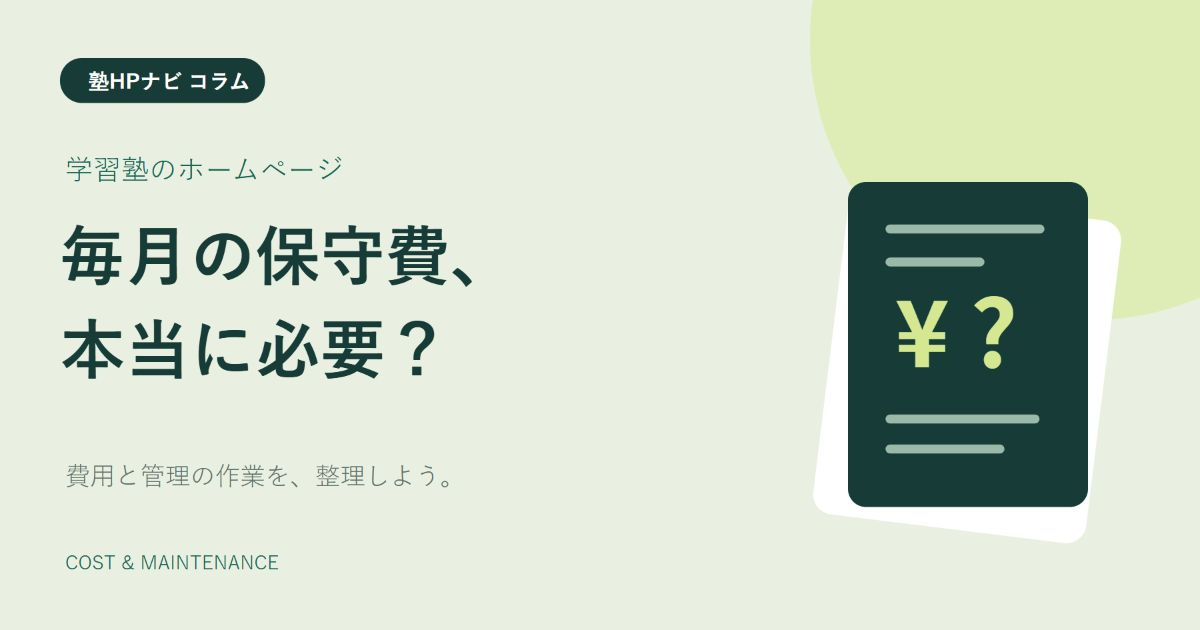
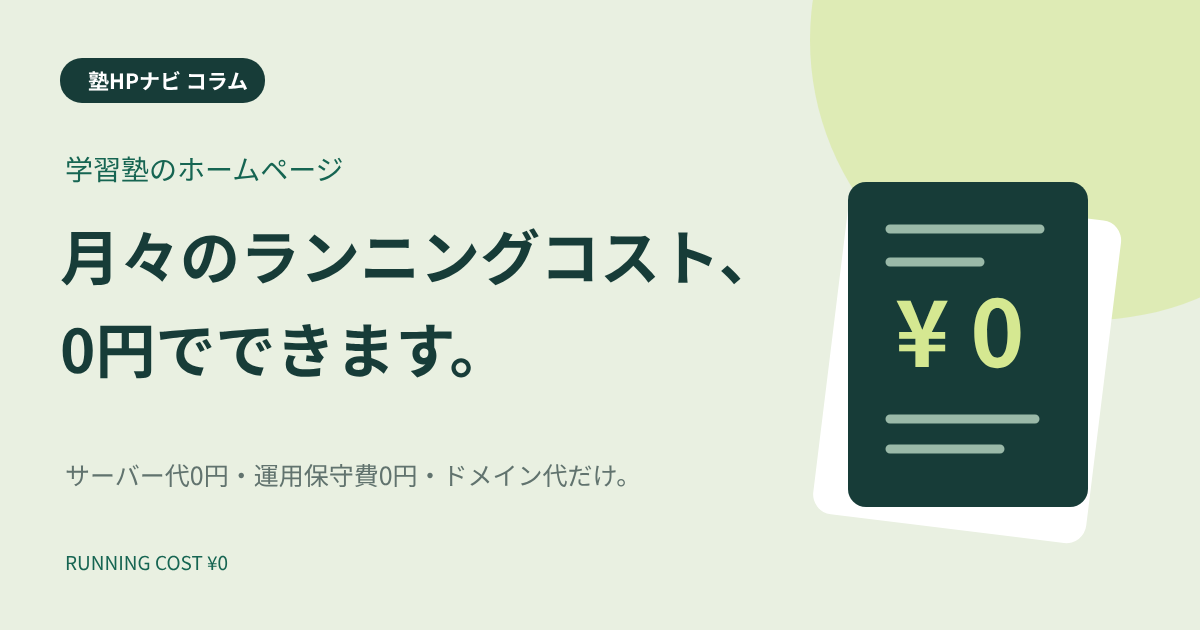
Rewrite column around zero monthly running cost
Retitle the maintenance-fees column to "学習塾のホームページは、月々のランニングコスト0円でできます"
and restructure it with conclusion-first headings: free server (GitHub Pages),
no maintenance fee, domain cost only, one-time production fee. Shorten the
second half, refresh the cover/OG image, and update the column cards and sitemap.

Claude-Session: https://claude.ai/code/session_01LzDfxpxXWJektGdbPMNKbb

diff --git a/columns/maintenance-fees.html b/columns/maintenance-fees.html
@@ -1,58 +1,40 @@
-<!doctype html><html lang="ja"><head><meta charset="utf-8"><meta name="viewport" content="width=device-width,initial-scale=1"><title>学習塾のホームページに保守費・サーバー管理費はいりません｜塾HPナビ</title><meta name="description" content="学習塾のホームページに毎月の保守契約は必要？ 桜灯塾・elio・Kokuban BASEの実例をもとに、毎月のサーバー代や運用保守費をかけない運用を分かりやすく紹介します。"><link rel="canonical" href="https://juku-hp-navi.com/columns/maintenance-fees.html"><meta property="og:title" content="学習塾のホームページに保守費・サーバー管理費はいりません"><meta property="og:description" content="学習塾のホームページに毎月の保守契約は必要？ 桜灯塾・elio・Kokuban BASEの実例をもとに、毎月のサーバー代や運用保守費をかけない運用を分かりやすく紹介します。"><meta property="og:type" content="article"><meta property="og:url" content="https://juku-hp-navi.com/columns/maintenance-fees.html"><meta property="og:image" content="https://juku-hp-navi.com/assets/columns/maintenance-fees.png"><meta name="twitter:card" content="summary_large_image"><link rel="icon" href="/favicon.ico?v=20260925" sizes="any"><link rel="icon" href="/favicon.svg?v=20260925" type="image/svg+xml"><link rel="apple-touch-icon" href="/apple-touch-icon.png"><link rel="stylesheet" href="/styles.css?v=20261006"><link rel="stylesheet" href="/columns.css?v=20261006a"><script type="application/ld+json">{"@context":"https://schema.org","@type":"BlogPosting","headline":"学習塾のホームページに保守費・サーバー管理費はいりません","description":"学習塾のホームページに毎月の保守契約は必要？ 桜灯塾・elio・Kokuban BASEの実例をもとに、毎月のサーバー代や運用保守費をかけない運用を分かりやすく紹介します。","image":"https://juku-hp-navi.com/assets/columns/maintenance-fees.png","datePublished":"2026-10-06","dateModified":"2026-10-06","inLanguage":"ja","mainEntityOfPage":"https://juku-hp-navi.com/columns/maintenance-fees.html","author":{"@type":"Person","name":"山田 将生","url":"https://juku-hp-navi.com/columns/maintenance-fees.html#author"},"publisher":{"@type":"Organization","name":"塾HPナビ","url":"https://juku-hp-navi.com","logo":{"@type":"ImageObject","url":"https://juku-hp-navi.com/apple-touch-icon.png"}}}</script><script type="application/ld+json">{"@context":"https://schema.org","@type":"BreadcrumbList","itemListElement":[{"@type":"ListItem","position":1,"name":"トップ","item":"https://juku-hp-navi.com/"},{"@type":"ListItem","position":2,"name":"コラム","item":"https://juku-hp-navi.com/columns/"},{"@type":"ListItem","position":3,"name":"学習塾のホームページに保守費・サーバー管理費はいりません","item":"https://juku-hp-navi.com/columns/maintenance-fees.html"}]}</script></head><body class="column-page"><a class="skip" href="#main">本文へ移動</a><header class="header"><div class="container header-inner"><a class="brand" href="/"><img class="brand-icon" src="/favicon.svg" width="40" height="40" alt=""><span>塾HPナビ<small>学習塾専門ホームページ制作</small></span></a><nav aria-label="メインナビゲーション"><a href="/columns/">コラム</a><a href="/#works">制作事例</a><a href="/#price">料金</a></nav><a class="button small" href="/#contact">無料で相談する ↗</a></div></header><main id="main"><div class="article-wrap"><nav class="breadcrumbs" aria-label="パンくず"><a href="/">トップ</a><span>／</span><a href="/columns/">コラム</a><span>／ 費用・運用</span></nav><header class="article-heading"><p class="eyebrow">COLUMN / 費用・運用</p><h1>学習塾のホームページに保守費・サーバー管理費はいりません</h1><p class="article-deck">塾の紹介やお問い合わせを受け付けるホームページに、<br>毎月の管理費・保守費は必要ありません。</p><p class="column-meta"><time datetime="2026-10-06">2026年10月6日 公開</time><span>執筆：山田 将生</span></p><img class="article-cover" src="/assets/columns/maintenance-fees.svg" alt="毎月の保守費、本当に必要？ 学習塾のホームページの費用を見直す" width="1200" height="630"></header><details class="article-toc"><summary>この記事の目次</summary><ol><li><a href="#section-1">この機能の範囲なら、基本的に毎月の保守契約はいりません</a></li><li><a href="#section-2">きっかけは「このお金、本当に必要？」という疑問でした</a></li><li><a href="#section-3">月1万円でも、5年で60万円になります</a></li><li><a href="#section-4">毎月の契約ではなく、必要なときに直すという考え方</a></li><li><a href="#section-5">毎月の管理を任せたほうがよい場合もあります</a></li><li><a href="#section-6">無料のサーバーも、使える条件を確認して選びます</a></li><li><a href="#section-7">塾HPナビの制作費は、一括99,000円（税込）です</a></li><li><a href="#section-8">ドメイン代だけは、継続して必要です</a></li><li><a href="#section-9">いまの保守契約を解約する前に</a></li><li><a href="#section-10">よくある質問</a></li><li><a href="#section-15">まとめ：毎月の支払いが当たり前とは限りません</a></li><li><a href="#section-16">この記事を書いた人</a></li><li><a href="#section-17">参考資料</a></li></ol></details><article class="article-body"><p><strong>学習塾のホームページなら、毎月の管理費や保守費を払う契約は必要ありません。</strong> ここでお話しするのは、塾の紹介やコース・料金の案内、お問い合わせの受付をするホームページです。</p>
-<p>実際に、次のホームページでは毎月の管理費・保守費を払っていません。いずれも無料のサーバーを使っているため、毎月のサーバー代もかかっていません。</p>
-<ul><li><a href="https://oubijuku-omu.com/">大阪公立大学専門 桜灯塾</a></li><li><a href="https://elio-ideaspot.com/">会員制難関受験専門塾 elio</a></li><li><a href="https://kokuban-base.com/">Kokuban BASE</a></li></ul><h2 id="section-1">この機能の範囲なら、基本的に毎月の保守契約はいりません</h2>
-<ul><li>塾の紹介、指導方針、講師紹介を載せる</li><li>コース・料金・時間割・アクセスを案内する</li><li>スマートフォンでも見やすく表示する</li><li>お問い合わせフォームで相談を受け付ける</li><li>お問い合わせを一覧に記録し、通知メールや受付完了メールを送る</li></ul><p><strong>こうした機能を中心にしたホームページであれば、基本的に毎月の保守契約を結ばずに運用できます。</strong> 文章や料金を変えたいときは、その都度修正するという考え方です。</p>
-<p>ドメイン（ホームページの住所）の更新や、フォーム・通知がきちんと動くかの確認は必要です。月額契約が不要ということであって、確認や修正の作業までなくなるわけではありません。機能の作り方によっても必要な対応は変わります。</p>
-<h2 id="section-2">きっかけは「このお金、本当に必要？」という疑問でした</h2>
-<p>学習塾の経営者様にお話を聞くと、「運用保守」という名目のお金を、具体的な作業内容が分からないまま毎月支払っているという声があります。</p>
-<p>そのお金は本当に必要なのか。疑問に思ったわたしは、自分でサイトを制作してみました。</p>
-<p>作ってみて分かったのは、<strong>作り方を選べば、毎月の保守契約を結ばずに運用できる</strong>ということです。先ほどの3サイトも、その実例です。</p>
-<p>毎月料金が発生するのが当たり前、というわけではありません。何をしてもらうための支払いなのか、一度確認してみてください。</p>
-<h2 id="section-3">月1万円でも、5年で60万円になります</h2>
-<p>毎月の金額は小さく見えても、何年も払い続けると大きな費用になります。</p>
-<div class="table-scroll" tabindex="0" role="region" aria-label="比較表"><table><thead><tr><th scope="col">月額</th><th scope="col">1年間</th><th scope="col">5年間</th></tr></thead><tbody><tr><td>5,000円</td><td>6万円</td><td>30万円</td></tr><tr><td>1万円</td><td>12万円</td><td>60万円</td></tr><tr><td>3万円</td><td>36万円</td><td>180万円</td></tr></tbody></table></div><p>もちろん、毎月のお知らせ更新や、困ったときの対応まで任せているなら、その支払いには意味があります。</p>
-<p>一方で、更新をほとんど頼んでいないのに「管理費」という理由だけで払い続けているなら、見直す余地があるかもしれません。</p>
-<h2 id="section-4">毎月の契約ではなく、必要なときに直すという考え方</h2>
-<p>塾の紹介、コースや料金、講師紹介、お問い合わせ先。こうした情報を載せるホームページであれば、複雑な仕組みを持たせずに作ることができます。</p>
-<p>文章や料金表を変えたいときには、その部分を直して公開する。自分で修正する方法もあれば、必要なときだけ制作者に頼む方法もあります。</p>
-<p><strong>「毎月お金を払うこと」と「ホームページをきちんと管理すること」は、同じではありません。</strong></p>
-<p>ただし、公開後に何もしなくてよいという意味ではありません。次のような確認は必要です。</p>
-<div class="table-scroll" tabindex="0" role="region" aria-label="比較表"><table><thead><tr><th scope="col">確認すること</th><th scope="col">やること</th></tr></thead><tbody><tr><td>ホームページの住所</td><td>ドメインの更新料を払い、使い続けられる状態にする</td></tr><tr><td>お問い合わせ</td><td>フォームが動くか、通知メールが届くかを確認する</td></tr><tr><td>掲載内容</td><td>料金・時間割・連絡先が古くなっていないか確認する</td></tr><tr><td>サイトのデータ</td><td>万一に備えて、データの控えを残しておく</td></tr></tbody></table></div><p>これらを誰が担当するのかを決めたうえで、毎月の契約が必要かどうかを考えます。</p>
-<h2 id="section-5">毎月の管理を任せたほうがよい場合もあります</h2>
-<p>例えば、次のようなホームページでは、継続して専門の人に見てもらう意味があります。</p>
-<ul><li>会員がログインして、個人情報や支払いを管理する</li><li>予約や決済など、複数の仕組みを組み合わせている</li><li>毎月たくさんの更新を代行してもらいたい</li><li>WordPressという、管理画面から記事などを更新する仕組みを使っている</li></ul><p>WordPressなどは、使い続けるための更新や不具合の確認が必要です。そうした作業を任せる保守費まで不要と言いたいわけではありません。</p>
-<p>お問い合わせフォームを使う場合も、保護者の名前や連絡先を誰が見られるかなど、情報の扱いには気を配る必要があります。</p>
-<p>大切なのは、<strong>自分の塾に必要な作業と、支払っている費用が合っているか</strong>です。</p>
-<h2 id="section-6">無料のサーバーも、使える条件を確認して選びます</h2>
-<p>無料でホームページを公開できるサービスには、それぞれ使える範囲や条件があります。どんなサイトでも、どのサービスでも無料で使えるわけではありません。</p>
-<p>例えばGitHub Pagesというサービスにも、事業や販売を目的とするサイトなどに関する利用制限があります。使う前に、公開する内容が条件に合っているか確認する必要があります（<a href="https://docs.github.com/en/pages/getting-started-with-github-pages/github-pages-limits">公式の利用条件</a>）。</p>
-<p>細かな仕組みを先生がすべて覚える必要はありません。制作を依頼するときに、<strong>「毎月いくらかかるか」「何の費用か」「公開後は誰が何をするか」</strong>を確認できれば、比較しやすくなります。</p>
-<h2 id="section-7">塾HPナビの制作費は、一括99,000円（税込）です</h2>
-<p>自分で作れば外注費はかかりませんが、文章を考え、見た目を整え、スマホでの表示を確認して公開するまでには時間がかかります。</p>
-<p>授業や教室運営で忙しい先生なら、その作業を任せるという選択肢もあります。わたしは現役塾講師としてお話を伺い、その塾の強みが伝わる構成とデザインを考えます。</p>
-<p>なお、撮影や取材、特別な機能などが含まれれば、制作費が高くなる理由もあります。他社と比べる際は、金額だけでなく、何をどこまでしてもらえるかも確認してください。</p>
-<h2 id="section-8">ドメイン代だけは、継続して必要です</h2>
-<p>ドメインとは「〇〇juku.com」のような、ホームページの住所です。この住所を使い続けるためには、更新料が必要です。</p>
-<p>塾HPナビでは年間約1,500円を目安にご案内しています。種類や契約先によって料金は変わりますが、月に換算すると約125円です。</p>
-<p>年払いであれば毎月の請求はありません。ただし、一度払えば永久に使えるというものではないため、更新を忘れないようにしておきます。</p>
-<h2 id="section-9">いまの保守契約を解約する前に</h2>
-<p>費用を見直したいと思っても、すぐに解約するのは避けてください。先に次の3点を確認しましょう。</p>
-<ol><li><strong>今のホームページの住所を引き継げるか</strong>：ドメインを誰が管理しているか、制作会社に確認します。</li><li><strong>ホームページのデータを受け取れるか</strong>：別の場所へ移して使えるかも確認します。</li><li><strong>解約の条件は何か</strong>：契約期間や申し出の期限、メールやお問い合わせへの影響を確認します。</li></ol><p>新しい場所でホームページやメールが動くことを確かめてから、古い契約を終える。この順番で進めることが大切です。</p>
-<h2 id="section-10">よくある質問</h2>
-<h3 id="section-11">無料のサーバーでも、お問い合わせフォームは作れますか？</h3>
-<p>作れます。お問い合わせを一覧にまとめたり、塾へ通知メールを送ったり、保護者へ受付完了メールを自動で送ったりすることもできます。必要な機能は、相談しながら決めていきます。</p>
-<h3 id="section-12">文章や料金表を変えたいときは？</h3>
-<p>自分で編集できるようにする方法も、必要なときに制作者へ頼む方法もあります。修正の依頼方法や費用は、制作時に確認しておくと安心です。</p>
-<h3 id="section-13">ホームページに不具合が起きたら？</h3>
-<p>公開サービスの不具合や、ドメインの更新忘れなどで表示できなくなることはあり得ます。困ったときの相談先を決め、データの控えを残しておきましょう。月額契約以外にも、その都度対応を頼む方法があります。</p>
-<h3 id="section-14">無料のサービスが有料になったら？</h3>
-<p>料金や利用条件が変わる可能性はあります。その場合は別の公開先へ移すことも検討できます。移す際には、表示やお問い合わせ機能の確認が必要です。</p>
-<h2 id="section-15">まとめ：毎月の支払いが当たり前とは限りません</h2>
-<p><strong>桜灯塾、elio、Kokuban BASEは、無料のサーバーを利用し、毎月の運用・保守費をかけずに公開しています。</strong></p>
-<p>ホームページには必ず毎月の管理費がかかる、というわけではありません。いま支払っているなら、まず「何をしてもらうための費用か」を確認してみてください。</p>
-<p>ホームページの制作や、公開後の費用についてのご相談は完全無料です。難しい言葉を覚えるところからではなく、いまの塾の状況を聞かせていただくところから始めます。</p>
-<h2 id="section-16">この記事を書いた人</h2>
+<!doctype html><html lang="ja"><head><meta charset="utf-8"><meta name="viewport" content="width=device-width,initial-scale=1"><title>学習塾のホームページは、月々のランニングコスト0円でできます｜塾HPナビ</title><meta name="description" content="学習塾のホームページは、毎月のサーバー代も運用保守費も0円で運用できます。かかるのは年間約1,500円のドメイン代だけ。無料サーバー「GitHub Pages」を使う理由と、保守契約がいらない理由を現役塾講師が解説します。"><link rel="canonical" href="https://juku-hp-navi.com/columns/maintenance-fees.html"><meta property="og:title" content="学習塾のホームページは、月々のランニングコスト0円でできます"><meta property="og:description" content="学習塾のホームページは、毎月のサーバー代も運用保守費も0円で運用できます。かかるのは年間約1,500円のドメイン代だけ。無料サーバー「GitHub Pages」を使う理由と、保守契約がいらない理由を現役塾講師が解説します。"><meta property="og:type" content="article"><meta property="og:url" content="https://juku-hp-navi.com/columns/maintenance-fees.html"><meta property="og:image" content="https://juku-hp-navi.com/assets/columns/maintenance-fees.png?v=20261008"><meta name="twitter:card" content="summary_large_image"><link rel="icon" href="/favicon.ico?v=20260925" sizes="any"><link rel="icon" href="/favicon.svg?v=20260925" type="image/svg+xml"><link rel="apple-touch-icon" href="/apple-touch-icon.png"><link rel="stylesheet" href="/styles.css?v=20261006"><link rel="stylesheet" href="/columns.css?v=20261006a"><script type="application/ld+json">{"@context":"https://schema.org","@type":"BlogPosting","headline":"学習塾のホームページは、月々のランニングコスト0円でできます","description":"学習塾のホームページは、毎月のサーバー代も運用保守費も0円で運用できます。かかるのは年間約1,500円のドメイン代だけ。無料サーバー「GitHub Pages」を使う理由と、保守契約がいらない理由を現役塾講師が解説します。","image":"https://juku-hp-navi.com/assets/columns/maintenance-fees.png?v=20261008","datePublished":"2026-10-06","dateModified":"2026-10-08","inLanguage":"ja","mainEntityOfPage":"https://juku-hp-navi.com/columns/maintenance-fees.html","author":{"@type":"Person","name":"山田 将生","url":"https://juku-hp-navi.com/columns/maintenance-fees.html#author"},"publisher":{"@type":"Organization","name":"塾HPナビ","url":"https://juku-hp-navi.com","logo":{"@type":"ImageObject","url":"https://juku-hp-navi.com/apple-touch-icon.png"}}}</script><script type="application/ld+json">{"@context":"https://schema.org","@type":"BreadcrumbList","itemListElement":[{"@type":"ListItem","position":1,"name":"トップ","item":"https://juku-hp-navi.com/"},{"@type":"ListItem","position":2,"name":"コラム","item":"https://juku-hp-navi.com/columns/"},{"@type":"ListItem","position":3,"name":"学習塾のホームページは、月々のランニングコスト0円でできます","item":"https://juku-hp-navi.com/columns/maintenance-fees.html"}]}</script></head><body class="column-page"><a class="skip" href="#main">本文へ移動</a><header class="header"><div class="container header-inner"><a class="brand" href="/"><img class="brand-icon" src="/favicon.svg" width="40" height="40" alt=""><span>塾HPナビ<small>学習塾専門ホームページ制作</small></span></a><nav aria-label="メインナビゲーション"><a href="/columns/">コラム</a><a href="/#works">制作事例</a><a href="/#price">料金</a></nav><a class="button small" href="/#contact">無料で相談する ↗</a></div></header><main id="main"><div class="article-wrap"><nav class="breadcrumbs" aria-label="パンくず"><a href="/">トップ</a><span>／</span><a href="/columns/">コラム</a><span>／ 費用・運用</span></nav><header class="article-heading"><p class="eyebrow">COLUMN / 費用・運用</p><h1>学習塾のホームページは、月々のランニングコスト0円でできます</h1><p class="article-deck">サーバー代0円、運用保守費0円。<br>かかるのは、年に約1,500円のドメイン代だけです。</p><p class="column-meta"><time datetime="2026-10-06">2026年10月6日 公開</time><time datetime="2026-10-08">2026年10月8日 更新</time><span>執筆：山田 将生</span></p><img class="article-cover" src="/assets/columns/maintenance-fees.svg?v=20261008" alt="月々のランニングコスト、0円でできます。サーバー代0円・運用保守費0円・ドメイン代だけ" width="1200" height="630"></header><details class="article-toc"><summary>この記事の目次</summary><ol><li><a href="#section-1">サーバーは、0円のものを選べます</a></li><li><a href="#section-2">運用保守費も、0円でかまいません</a></li><li><a href="#section-3">ただし、ドメイン代だけは年間約1,500円かかります</a></li><li><a href="#section-4">あとは、最初に制作費を払えば完了です</a></li><li><a href="#section-5">月1万円の保守費は、5年で60万円になります</a></li><li><a href="#section-6">毎月の保守契約が必要なのは、ログインや決済があるホームページです</a></li><li><a href="#section-7">よくある質問</a></li><li><a href="#section-12">まとめ：かかるのは、ドメイン代と最初の制作費だけです</a></li><li><a href="#section-13">この記事を書いた人</a></li><li><a href="#section-14">参考資料</a></li></ol></details><article class="article-body"><p><strong>学習塾のホームページは、月々のランニングコスト0円で運用できます。</strong> 毎月のサーバー代も、運用保守費もいりません。かかるのは、年に約1,500円のドメイン代だけです。</p>
+<p>ここでお話しするのは、塾の紹介、コース・料金の案内、お問い合わせの受付をするホームページです。実際に、次の3つのホームページは、毎月のサーバー代も運用保守費も払わずに公開しています。</p>
+<ul><li><a href="https://oubijuku-omu.com/">大阪公立大学専門 桜灯塾</a></li><li><a href="https://elio-ideaspot.com/">会員制難関受験専門塾 elio</a></li><li><a href="https://kokuban-base.com/">Kokuban BASE</a></li></ul><h2 id="section-1">サーバーは、0円のものを選べます</h2>
+<p>写真や書類を無料で預けられるGoogleドライブのように、ホームページを置くサーバーにも無料のものがあります。その代表が、<strong>GitHub Pages（ギットハブ・ページズ）</strong>です。</p>
+<p>ホームページのデータ（コード）をGitHubに置いておくと、GitHub Pagesがそれをそのままインターネット上に公開してくれます。自分でサーバーを借りる契約をしなくても、クラウド上のサーバーとして使えるということです。</p>
+<p>いまご覧のこの塾HPナビのホームページも、GitHub Pagesで公開しています。</p>
+<p>なお、GitHub Pagesには利用条件があり、ネットショップや決済など、サイト上での取引を主な目的とするホームページは対象外です（<a href="https://docs.github.com/en/pages/getting-started-with-github-pages/github-pages-limits">公式の利用条件</a>）。塾HPナビでは、塾の紹介とお問い合わせの受付を中心にした構成で制作しています。</p>
+<h2 id="section-2">運用保守費も、0円でかまいません</h2>
+<p>毎月の保守費は、多くの場合「仕組みを更新し続ける作業」や「不正アクセスへの備え」のためのお金です。この作り方のホームページには、そのどちらも必要ありません。</p>
+<ul><li><strong>サーバーの管理はGitHubが行います。</strong> 自分たちで機器やソフトを更新する作業がありません。</li><li><strong>ホームページの中に個人情報を保存しません。</strong> 会員のログイン画面も、管理画面も、データベースもないので、盗まれて困るものが置かれていません。</li><li><strong>更新し続ける仕組みを使っていません。</strong> WordPressのように、放っておくと古くなる仕組みがないため、定期的な更新作業がいりません。</li></ul><p>お問い合わせフォームから届いた内容は、ホームページの中ではなくGoogleのスプレッドシートに記録され、通知メールで届きます。保護者の連絡先を守るために、そのGoogleアカウントには2段階認証を設定しておきましょう。これにも費用はかかりません。</p>
+<p>文章や料金を変えたいときは、その部分だけを直して公開し直します。毎月の契約にしなくても、必要なときにその都度対応すれば足ります。</p>
+<h2 id="section-3">ただし、ドメイン代だけは年間約1,500円かかります</h2>
+<p>ドメインとは「〇〇juku.com」のような、ホームページの住所です。これだけは無料にならず、使い続けるために年1回の更新料がかかります。</p>
+<p>塾HPナビでは年間約1,500円を目安にご案内しています。月に換算すると約125円です。ドメインの種類や契約先によって金額は変わります。</p>
+<p>年払いなので、毎月の請求はありません。更新を忘れるとホームページが表示されなくなるため、自動更新にしておくと安心です。</p>
+<h2 id="section-4">あとは、最初に制作費を払えば完了です</h2>
+<p>塾HPナビの制作費は、一括99,000円（税込）です。公開後に毎月いただく費用はありません。</p>
+<p>わたしは現役塾講師としてお話を伺い、その塾の強みが伝わる構成とデザインを考えます。授業や教室運営で忙しい先生は、作る作業をまるごとお任せいただけます。</p>
+<h2 id="section-5">月1万円の保守費は、5年で60万円になります</h2>
+<p>毎月の金額は小さく見えても、払い続けると大きな費用になります。</p>
+<div class="table-scroll" tabindex="0" role="region" aria-label="比較表"><table><thead><tr><th scope="col">月額</th><th scope="col">1年間</th><th scope="col">5年間</th></tr></thead><tbody><tr><td>5,000円</td><td>6万円</td><td>30万円</td></tr><tr><td>1万円</td><td>12万円</td><td>60万円</td></tr><tr><td>3万円</td><td>36万円</td><td>180万円</td></tr></tbody></table></div><p>お知らせの更新や、困ったときの対応まで任せているなら、その支払いには意味があります。一方、ほとんど何も頼んでいないのに「管理費」として払い続けているなら、何のための費用かを一度確認してみてください。</p>
+<h2 id="section-6">毎月の保守契約が必要なのは、ログインや決済があるホームページです</h2>
+<p>次のようなホームページでは、専門の人に継続して見てもらう意味があります。</p>
+<ul><li>会員がログインして、個人情報や支払いを管理する</li><li>予約や決済など、複数の仕組みを組み合わせている</li><li>WordPressなど、定期的な更新が必要な仕組みを使っている</li><li>毎月たくさんの更新を代行してもらいたい</li></ul><p>大切なのは、<strong>自分の塾に必要な作業と、支払っている費用が合っているか</strong>です。</p>
+<h2 id="section-7">よくある質問</h2>
+<h3 id="section-8">無料のサーバーでも、お問い合わせフォームは作れますか？</h3>
+<p>作れます。お問い合わせを一覧に記録し、塾へ通知メールを送り、保護者へ受付完了メールを自動で返すところまで対応できます。</p>
+<h3 id="section-9">文章や料金表を変えたいときは？</h3>
+<p>自分で編集する方法も、必要なときだけ制作者に頼む方法もあります。依頼の方法と費用は、制作時に確認しておくと安心です。</p>
+<h3 id="section-10">GitHub Pagesが有料になったり、使えなくなったりしたら？</h3>
+<p>料金や利用条件が変わる可能性はあります。ホームページのデータは手元に残るので、その場合は別の公開先へ移せます。</p>
+<h3 id="section-11">いまの保守契約は、すぐに解約してよいですか？</h3>
+<p>先に3点を確認してください。ドメインを誰が管理しているか、ホームページのデータを受け取れるか、解約の条件（契約期間、申し出の期限、メールへの影響）は何か、です。新しいホームページが動くことを確かめてから、古い契約を終えます。</p>
+<h2 id="section-12">まとめ：かかるのは、ドメイン代と最初の制作費だけです</h2>
+<ul><li><strong>毎月の運用保守費</strong>：いりません</li><li><strong>毎月のサーバー代</strong>：いりません</li><li><strong>ドメイン代</strong>：年間約1,500円（月あたり約125円）</li><li><strong>制作費</strong>：最初に一度払えば完了</li></ul><p>ホームページには必ず毎月の費用がかかる、というわけではありません。制作や公開後の費用についてのご相談は完全無料です。いまの塾の状況を聞かせていただくところから始めます。</p>
+<h2 id="section-13">この記事を書いた人</h2>
 <div class="article-author" id="author"><img src="/favicon.svg" alt="" width="64" height="64"><div><strong>山田 将生</strong><p>現役塾講師・塾HPナビ制作担当。学習塾の現場で指導しながら、塾の強みが伝わるホームページを制作しています。</p><a href="/#contact">ホームページの無料相談 →</a></div></div>
-<h2 id="section-17">参考資料</h2>
+<h2 id="section-14">参考資料</h2>
 <ul><li><a href="https://docs.github.com/en/pages/getting-started-with-github-pages/github-pages-limits">GitHub Pagesの利用条件（公式）</a></li></ul><p>掲載している費用は2026年10月時点の情報です。サービスの料金や利用条件は変わる場合があります。</p>
 </article><aside class="article-cta"><p class="eyebrow">ホームページのご相談は完全無料</p><h2>いまの費用や構成から、<br>一緒に整理しませんか。</h2><a class="button" href="/#contact">無料で相談する ↗</a></aside><a class="back-columns" href="/columns/">← コラム一覧に戻る</a></div></main><footer><div class="container footer-inner"><a href="/">塾HPナビ トップ</a><a href="/columns/">コラム一覧</a><small>© 2026 塾HPナビ</small></div></footer></body></html>

diff --git a/columns/index.html b/columns/index.html
@@ -1,1 +1,1 @@
-<!doctype html><html lang="ja"><head><meta charset="utf-8"><meta name="viewport" content="width=device-width,initial-scale=1"><title>学習塾のホームページ制作・運用コラム｜塾HPナビ</title><meta name="description" content="学習塾のホームページ制作、費用、運用について、現役塾講師の視点からお届けするコラムです。"><link rel="canonical" href="https://juku-hp-navi.com/columns/"><meta property="og:title" content="学習塾のホームページ制作・運用コラム"><meta property="og:description" content="学習塾のホームページ制作、費用、運用について、現役塾講師の視点からお届けするコラムです。"><meta property="og:type" content="website"><meta property="og:url" content="https://juku-hp-navi.com/columns/"><meta property="og:image" content="https://juku-hp-navi.com/assets/columns/maintenance-fees.png"><meta name="twitter:card" content="summary_large_image"><link rel="icon" href="/favicon.ico?v=20260925" sizes="any"><link rel="icon" href="/favicon.svg?v=20260925" type="image/svg+xml"><link rel="apple-touch-icon" href="/apple-touch-icon.png"><link rel="stylesheet" href="/styles.css?v=20261006"><link rel="stylesheet" href="/columns.css?v=20261006a"></head><body class="column-page"><a class="skip" href="#main">本文へ移動</a><header class="header"><div class="container header-inner"><a class="brand" href="/"><img class="brand-icon" src="/favicon.svg" width="40" height="40" alt=""><span>塾HPナビ<small>学習塾専門ホームページ制作</small></span></a><nav aria-label="メインナビゲーション"><a href="/columns/">コラム</a><a href="/#works">制作事例</a><a href="/#price">料金</a></nav><a class="button small" href="/#contact">無料で相談する ↗</a></div></header><main id="main" class="section column-index"><div class="container"><nav class="breadcrumbs" aria-label="パンくず"><a href="/">トップ</a><span>／ コラム</span></nav><p class="eyebrow">COLUMN</p><h1>塾のホームページを、<br>もっと身近に。</h1><p class="section-description">制作の費用から、公開後の運用まで。<br>現役塾講師の視点から、考え方をお届けします。</p><div class="column-grid"><article class="column-card"><a href="/columns/maintenance-fees.html"><img src="/assets/columns/maintenance-fees.svg" alt="学習塾のホームページ 毎月の保守費、本当に必要？" width="1200" height="630" loading="lazy"><div class="column-card-copy"><p class="column-meta"><span>費用・運用</span><time datetime="2026-10-06">2026.10.06</time></p><h3>学習塾のホームページに保守費・サーバー管理費はいりません</h3><p>必要な費用と管理の作業を、現役塾講師の視点から整理します。</p><span class="column-read">記事を読む <span aria-hidden="true">↗</span></span></div></a></article></div></div></main><footer><div class="container footer-inner"><a href="/">塾HPナビ トップ</a><a href="/columns/">コラム一覧</a><small>© 2026 塾HPナビ</small></div></footer></body></html>
+<!doctype html><html lang="ja"><head><meta charset="utf-8"><meta name="viewport" content="width=device-width,initial-scale=1"><title>学習塾のホームページ制作・運用コラム｜塾HPナビ</title><meta name="description" content="学習塾のホームページ制作、費用、運用について、現役塾講師の視点からお届けするコラムです。"><link rel="canonical" href="https://juku-hp-navi.com/columns/"><meta property="og:title" content="学習塾のホームページ制作・運用コラム"><meta property="og:description" content="学習塾のホームページ制作、費用、運用について、現役塾講師の視点からお届けするコラムです。"><meta property="og:type" content="website"><meta property="og:url" content="https://juku-hp-navi.com/columns/"><meta property="og:image" content="https://juku-hp-navi.com/assets/columns/maintenance-fees.png?v=20261008"><meta name="twitter:card" content="summary_large_image"><link rel="icon" href="/favicon.ico?v=20260925" sizes="any"><link rel="icon" href="/favicon.svg?v=20260925" type="image/svg+xml"><link rel="apple-touch-icon" href="/apple-touch-icon.png"><link rel="stylesheet" href="/styles.css?v=20261006"><link rel="stylesheet" href="/columns.css?v=20261006a"></head><body class="column-page"><a class="skip" href="#main">本文へ移動</a><header class="header"><div class="container header-inner"><a class="brand" href="/"><img class="brand-icon" src="/favicon.svg" width="40" height="40" alt=""><span>塾HPナビ<small>学習塾専門ホームページ制作</small></span></a><nav aria-label="メインナビゲーション"><a href="/columns/">コラム</a><a href="/#works">制作事例</a><a href="/#price">料金</a></nav><a class="button small" href="/#contact">無料で相談する ↗</a></div></header><main id="main" class="section column-index"><div class="container"><nav class="breadcrumbs" aria-label="パンくず"><a href="/">トップ</a><span>／ コラム</span></nav><p class="eyebrow">COLUMN</p><h1>塾のホームページを、<br>もっと身近に。</h1><p class="section-description">制作の費用から、公開後の運用まで。<br>現役塾講師の視点から、考え方をお届けします。</p><div class="column-grid"><article class="column-card"><a href="/columns/maintenance-fees.html"><img src="/assets/columns/maintenance-fees.svg?v=20261008" alt="学習塾のホームページ 月々のランニングコスト、0円でできます。" width="1200" height="630" loading="lazy"><div class="column-card-copy"><p class="column-meta"><span>費用・運用</span><time datetime="2026-10-06">2026.10.06</time></p><h3>学習塾のホームページは、月々のランニングコスト0円でできます</h3><p>サーバー代0円、運用保守費0円。かかるのは年間約1,500円のドメイン代だけ。その理由を現役塾講師が解説します。</p><span class="column-read">記事を読む <span aria-hidden="true">↗</span></span></div></a></article></div></div></main><footer><div class="container footer-inner"><a href="/">塾HPナビ トップ</a><a href="/columns/">コラム一覧</a><small>© 2026 塾HPナビ</small></div></footer></body></html>

diff --git a/index.html b/index.html
@@ -39,7 +39,7 @@
 
 
 
-<section class="section home-columns" id="columns"><div class="container"><div class="section-head"><div><p class="eyebrow">COLUMN</p><h2>塾のホームページを、<br>もっと身近に。</h2></div><a class="text-link" href="/columns/">コラム一覧を見る ↗</a></div><div class="column-grid"><article class="column-card"><a href="/columns/maintenance-fees.html"><img src="/assets/columns/maintenance-fees.svg" alt="学習塾のホームページ 毎月の保守費、本当に必要？" width="1200" height="630" loading="lazy"><div class="column-card-copy"><p class="column-meta"><span>費用・運用</span><time datetime="2026-10-06">2026.10.06</time></p><h3>学習塾のホームページに保守費・サーバー管理費はいりません</h3><p>必要な費用と管理の作業を、現役塾講師の視点から整理します。</p><span class="column-read">記事を読む <span aria-hidden="true">↗</span></span></div></a></article></div></div></section>
+<section class="section home-columns" id="columns"><div class="container"><div class="section-head"><div><p class="eyebrow">COLUMN</p><h2>塾のホームページを、<br>もっと身近に。</h2></div><a class="text-link" href="/columns/">コラム一覧を見る ↗</a></div><div class="column-grid"><article class="column-card"><a href="/columns/maintenance-fees.html"><img src="/assets/columns/maintenance-fees.svg?v=20261008" alt="学習塾のホームページ 月々のランニングコスト、0円でできます。" width="1200" height="630" loading="lazy"><div class="column-card-copy"><p class="column-meta"><span>費用・運用</span><time datetime="2026-10-06">2026.10.06</time></p><h3>学習塾のホームページは、月々のランニングコスト0円でできます</h3><p>サーバー代0円、運用保守費0円。かかるのは年間約1,500円のドメイン代だけ。その理由を現役塾講師が解説します。</p><span class="column-read">記事を読む <span aria-hidden="true">↗</span></span></div></a></article></div></div></section>
 <section class="section works" id="works"><div class="container">
 <div class="section-head"><div><p class="eyebrow">制作事例</p><h2>伝えるべき違いから、<br>見せ方は変わる。</h2></div></div>
 <article class="work-entry" id="oubijuku-case"><div class="work-title"><span class="number">01</span><h3>大阪公立大学専門 桜灯塾</h3></div><div class="work-body"><a class="work-image" href="https://oubijuku-omu.com/" target="_blank" rel="noopener noreferrer"><img src="assets/oubijuku-firstview.png" alt="大阪公立大学専門 桜灯塾の実際のファーストビュー" width="1265" height="712" loading="lazy"><span>実際のサイトを見る ↗</span></a><div class="work-copy"><h4>最初に伝えるのは、<br>「大阪公立大学を目指す人のための塾」。</h4><p>ターゲットを大阪公立大学を志望する生徒に絞り、開いた瞬間に専門性が伝わる構成に。入試対策の各メニューは、そのゴールを支える情報として整理しました。</p><p>note・アメーバブログの情報を統合し、検索から塾を探す人も意識したSEO設計を行いました。</p><p class="work-metrics"><strong>公開3か月で約20件</strong>のお問い合わせ。<br>入塾にもつながり、<strong>2か月以内に制作費を回収。</strong></p><small>桜灯塾における個別の実績です。</small></div></div></article>
